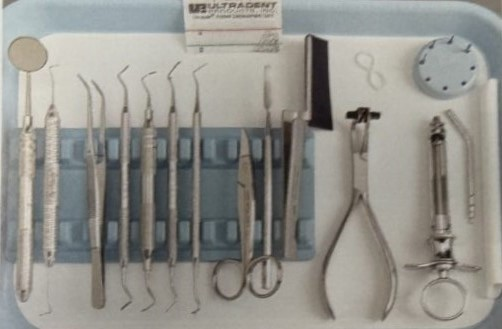
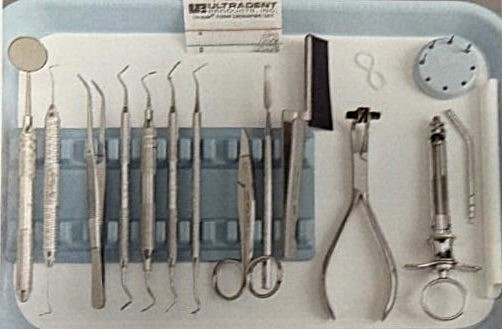
Altered image of dental tray. 	modified:   app/(tabs)/drssources.tsx 	modified:   assets/images/dental_tray.jpg
Updated 404.html page to include .ttf reference.
	modified:   docs/404.html

diff --git a/docs/404.html b/docs/404.html
@@ -33,6 +33,7 @@
   }
     </script>
   <link rel="shortcut icon" href="/cdareference-trainingapp/favicon.ico" /></head>
+  link rel="preload" as="font" href="/cdareference-trainingapp/assets/fonts/MaterialIcons.ttf" type="font/ttf" crossorigin="anonymous" />
 
   <body>
     <!-- Use static rendering with Expo Router to support running without JavaScript. -->

diff --git a/app/(tabs)/drssources.tsx b/app/(tabs)/drssources.tsx
@@ -31,7 +31,7 @@ export default function TabThreeScreen(){
       
       <Image 
         source={require('@/assets/images/dental_tray.jpg')}
-        style = {styles.contentImage}>
+      />
       </Image>
       </ParallaxScrollView>
     )
